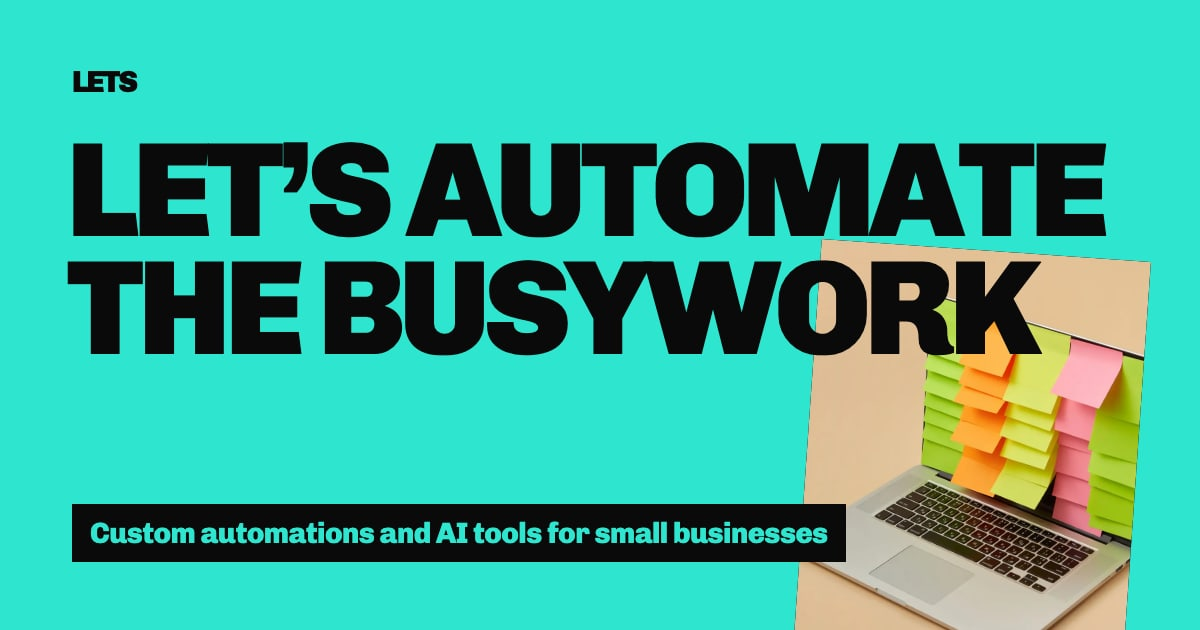
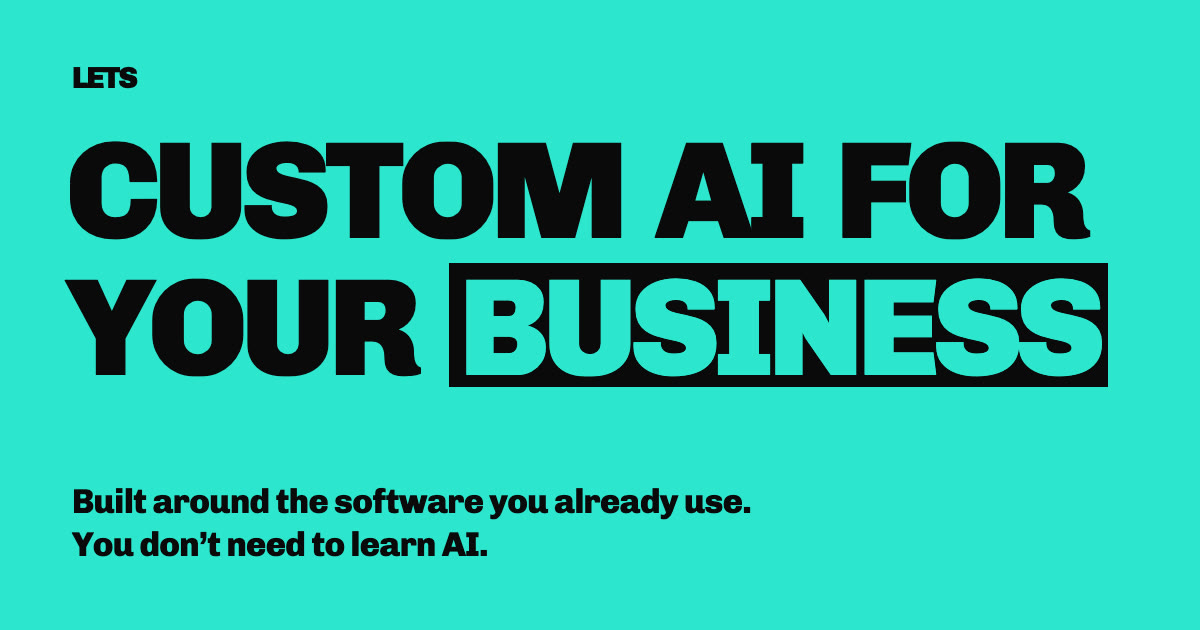
New first screen: "Custom AI for your business", with four everyday jobs lighting up once
Chosen by Ben (option B) after a Codex partner proposal, an adversarial review and a re-check, and blind
5-second tests on phones: the offer is still and readable from the first frame (no entrance delay), BUSINESS
sits in a black box, and only the example moves (each result switches in one step, so no low-contrast frame;
reduced motion and no script show the finished picture). Old headline, paragraph, photo and load animation
removed with their CSS; the headline echo is gone from motion.js. Share card and og text match the new
headline. Codex code review: REVISE (chip contrast, list role, unused tokens) fixed, then APPROVE.

diff --git a/site/styles.css b/site/styles.css
@@ -43,8 +43,6 @@
   --section: clamp(5.5rem, 11vw, 10rem);
 
   --ease-out: cubic-bezier(0.22, 1, 0.36, 1);
-  --ease-expo: cubic-bezier(0.16, 1, 0.3, 1);
-  --ease-in-out: cubic-bezier(0.76, 0, 0.24, 1);
   --t-press: 140ms;
   --t-hover: 180ms;
   --t-ui: 240ms;
@@ -126,28 +124,9 @@ p { text-wrap: pretty; }
 .nav__links { display: flex; gap: clamp(1rem, 2.6vw, 2.5rem); }
 .nav__links a { text-decoration-thickness: 0.12em; }
 .menu { display: none; }
-.hero__title { margin-top: clamp(1.5rem, 5svh, 4rem); position: relative; z-index: 2; }
-.hero__body { flex: 1; min-height: 0; position: relative; margin-top: clamp(1.5rem, 3.5svh, 2.5rem); padding-bottom: clamp(2rem, 5svh, 3.5rem); align-items: start; }
-.hero__copy { grid-column: 1 / span 6; grid-row: 1; display: flex; flex-direction: column; align-items: flex-start; gap: 1.75rem; position: relative; z-index: 2; }
-.hero__fact { font-weight: 700; font-size: var(--step-body); line-height: 1.4; max-width: 44ch; }
-.hero__act { display: flex; flex-wrap: wrap; align-items: center; gap: 0.75rem 1.5rem; }
-.hero__free { font-weight: 900; font-size: var(--step-body); }
-/* On wide screens the picture sits in its grid area but out of flow, so it bleeds off the bottom without
-   setting the hero's height, and the hero grows with the words on short screens instead of cutting them. */
-.hero__picture {
-  grid-column: 7 / span 5; grid-row: 1; position: absolute; top: 0; left: 0; right: 0; z-index: 1;
-  margin-top: calc(var(--step-display) * -0.55);
-  aspect-ratio: 3 / 4; background: var(--photo-ground); overflow: clip;
-  transform: rotate(4deg); transform-origin: 50% 0;
-}
-.hero__picture picture, .hero__picture img { width: 100%; height: 100%; }
-.hero__picture img { object-fit: cover; object-position: 50% 30%; }
 
 /* The Billing Day card: the app's own look (the .bd tokens), a link to the full preview below. */
 
-/* lines for the masked headline */
-.lines .line { display: block; overflow: clip; padding-bottom: 0.08em; margin-bottom: -0.08em; }
-.lines [data-line] { display: block; }
 
 /* ---------- intro: the proposition, and the busywork list the headline's letters land in ---------- */
 
@@ -343,9 +322,6 @@ p { text-wrap: pretty; }
   .menu__links a { display: block; padding: 0.55rem 0; font-size: var(--step-lead); font-weight: 900; letter-spacing: -0.03em; text-decoration: none; }
   .menu__links a:focus-visible { outline-offset: 0; }
   .hero { height: auto; min-height: 0; }
-  .hero__copy { grid-column: 1 / span 6; grid-row: 1; }
-  .hero__picture { position: relative; inset: auto; grid-column: 8 / span 5; grid-row: 1 / 3; margin-bottom: -14%; }
-  .hero__body { grid-template-rows: auto minmax(0, 1fr); padding-bottom: 2.5rem; }
   
   
   
@@ -374,12 +350,6 @@ p { text-wrap: pretty; }
 @media (max-width: 640px) {
   .nav { gap: 0.5rem; }
   .menu { margin-left: auto; }
-  .hero__title { margin-top: 1.5rem; }
-  .hero__body { display: flex; flex-direction: column; gap: 1.5rem; padding-bottom: 2.5rem; }
-  .hero__copy { gap: 1.25rem; }
-  .hero__act { width: 100%; }
-  .hero__act .button { width: 100%; }
-  .hero__picture { order: 3; width: 64%; align-self: center; margin-top: 0.5rem; margin-bottom: -18%; transform: rotate(4deg); }
   
   
   .vm__controls { width: 100%; }
@@ -414,17 +384,6 @@ p { text-wrap: pretty; }
   .footer__links { grid-template-columns: repeat(2, max-content); }
 }
 
-/* ---------- motion: the load sequence (CSS only, settled by 1.2s; the reduced page is the finished page) ---------- */
-@media (prefers-reduced-motion: no-preference) {
-  .js .hero [data-line] { transform: translateY(105%); animation: line-up 900ms var(--ease-expo) forwards; animation-delay: calc(120ms + var(--i) * 110ms); }
-  .js .hero [data-load] { opacity: 0; transform: translateY(16px); animation: rise 560ms var(--ease-out) forwards; animation-delay: var(--d); }
-  .js .hero [data-open] { clip-path: inset(100% 0 0 0); animation: open-up 1000ms var(--ease-in-out) 180ms forwards; }
-  .js .hero [data-open] img { transform: scale(1.14); animation: settle 1200ms var(--ease-expo) 150ms forwards; }
-}
-@keyframes line-up { to { transform: none; } }
-@keyframes rise { to { opacity: 1; transform: none; } }
-@keyframes open-up { to { clip-path: inset(0 0 0 0); } }
-@keyframes settle { to { transform: none; } }
 [data-ripple] { background: currentColor; }
 .impression-line { display: block; white-space: nowrap; }
 .impression-line::before { content: attr(data-t); }
@@ -710,14 +669,9 @@ p { text-wrap: pretty; }
 @media (max-width: 640px) { .about__photo { grid-column: 1 / span 10; } }
 /* Footer links wrap instead of running into the address at narrow desktop widths. */
 .footer__links { display: flex; flex-wrap: wrap; gap: 0.75rem 2.5rem; }
-/* Short laptop screens (1440x700): tighter rows, a smaller lead and a smaller photo, so the button, the
-   free line and the Billing Day card all fit on the first screen. */
+/* Short laptop screens (1440x700): a tighter nav row, so the offer and its button fit on the first screen. */
 @media (min-width: 1001px) and (max-height: 820px) {
   .hero .nav { padding-block: 0.875rem; }
-  .hero__title { margin-top: 0.25rem; font-size: min(var(--step-display), 21svh); }
-  .hero__body { margin-top: 1rem; padding-bottom: 1.25rem; }
-  .hero__copy { gap: 1rem; }
-  .hero__copy .lead { font-size: 1.375rem; }
 }
 /* The Approve card comes straight after the street (in the page's order too), so on a phone the windows
    that answer the button are just above it; on wide screens the invoice stays on the left. */
@@ -915,14 +869,11 @@ p { text-wrap: pretty; }
 }
 
 /* ---------- audit round 1, 2026-11-05: strict conversion, design and truth audits ---------- */
-/* Weight carries meaning again: running text at 400, headings and labels heavy. The hero's lead line leads. */
-.hero .lead { font-weight: 600; }
-.hero__fact, .probs__why, .work__text, .coupon__facts li, .calc__how, .chores__legend, .vmrow__words p { font-weight: 400; }
+/* Weight carries meaning again: running text at 400, headings and labels heavy. */
+.probs__why, .work__text, .coupon__facts li, .calc__how, .chores__legend, .vmrow__words p { font-weight: 400; }
 /* On a phone the section heads step down so the page title stays the largest type. */
 @media (max-width: 640px) {
   :root { --step-head: 2rem; }
-  .hero__copy { gap: 1rem; }
-  .hero__picture { width: 56%; margin-top: 0; }
 }
 /* How it works: each step on the page grid (heading on the left half, words from column 7); the last step's
    teal block runs to the page edges so its heading starts on the same line as the others. */
@@ -964,7 +915,7 @@ p { text-wrap: pretty; }
   .bd .st-lot { aspect-ratio: 1; }
   .bd .st-lot > .st-lot-bldg { left: -10%; width: 120%; }
 }
-/* Resting tilts: only the hero picture leans; interface pieces sit square (their entrances still turn). */
+/* Resting tilts: interface pieces sit square (their entrances still turn). */
 [data-ui].vm-list { transform: none; }
 /* Reduced motion: the phone shows Monday night and Tuesday morning one under the other (nothing waits hidden
    behind a button), and its only control is the contact link. */
@@ -989,8 +940,6 @@ p { text-wrap: pretty; }
 
 /* Hero: the picture fills to the right margin on wide screens; on a phone it is shown whole, not cut by the next
    section. */
-@media (min-width: 1001px) { .hero__picture { grid-column: 7 / span 6; } }
-@media (max-width: 640px) { .hero__picture { margin-bottom: 0; } }
 
 /* The problems: the survey figures in white; teal is kept for actions and the demos. */
 .fix4__stat b { color: var(--white); }
@@ -1091,3 +1040,64 @@ p { text-wrap: pretty; }
   .coupon__privacy { order: 11; }
 }
 @media (max-width: 640px) { .coupon__text { font-size: var(--step-body); } }
+
+/* ---------- hero, round 5 (2026-11-06): the offer stays still, one example moves ----------
+   Codex partner and adversary, and blind 5-second tests: the offer is readable from the first frame, nothing
+   in it waits for an entrance, and only the example below it moves (once, then rests on the finished picture;
+   reduced motion and no script show the finished picture). Phone first. */
+.hero { min-height: 0; padding-bottom: 2rem; }
+.hero__title { --fit: 7.75; font-size: min(calc((100cqi - 2 * var(--margin)) / var(--fit)), 17svh, 8.75rem); line-height: 0.92; word-spacing: 0.1em; margin-top: 0.75rem; }
+.hero__l { display: block; white-space: nowrap; }
+.hero__box { display: inline-block; line-height: 0.8; background: var(--black); color: var(--teal); padding: 0.07em 0.07em 0.03em; margin-top: 0.06em; }
+.hero__body { display: flex; flex-direction: column; gap: 1rem; margin-top: 1.1rem; }
+.hero__copy { display: grid; gap: 0.5rem; }
+.hero__sub { font-size: 1.25rem; line-height: 1.25; font-weight: 800; letter-spacing: -0.02em; max-width: 26ch; }
+.hero__who { font-size: var(--step-body); font-weight: 700; line-height: 1.3; }
+.hero__act { display: grid; gap: 0.5rem; }
+.hero__act .button { width: 100%; min-height: 3.5rem; }
+.hero__free { font-weight: 900; font-size: var(--step-body); line-height: 1.3; }
+.hero__lead { font-size: 1.125rem; font-weight: 600; max-width: 32ch; }
+
+/* the example: four everyday jobs and what each becomes */
+.jobs { margin: 0; background: var(--black); color: var(--white); padding: 0.875rem 1rem 1rem; }
+.jobs__top { display: flex; justify-content: space-between; align-items: baseline; gap: 1rem; margin-bottom: 0.6rem; }
+.jobs__top b { font-size: 1.0625rem; font-weight: 900; color: var(--teal); letter-spacing: -0.02em; }
+.jobs__tag { font-size: 0.8125rem; font-weight: 700; background: var(--white); color: var(--black); padding: 0.05rem 0.45rem; }
+.jobs__list { display: grid; gap: 0.3rem; }
+.job { display: grid; grid-template-columns: 6.6rem 1.4rem 1fr; align-items: center; gap: 0.4rem; }
+.job__from { font-weight: 800; font-size: 0.875rem; line-height: 1.15; }
+.job__arrow { width: 100%; fill: none; stroke: var(--teal); stroke-width: 3.5; stroke-linecap: square; }
+.job__to { background: var(--teal); color: var(--black); font-weight: 800; font-size: 0.875rem; line-height: 1.15; padding: 0.3rem 0.5rem; }
+.jobs__check { display: flex; align-items: center; gap: 0.5rem; margin-top: 0.6rem; font-weight: 900; font-size: 1.0625rem; letter-spacing: -0.02em; }
+.jobs__check svg { width: 1.5rem; height: 1.5rem; flex: none; fill: none; stroke: var(--teal); stroke-width: 3.5; stroke-dasharray: 30; }
+
+/* With script and motion, the results start unlit (every word still readable) from the first paint, so nothing
+   flashes; js/hero.js lights them once, one after another, when the example is on screen, then marks it at
+   rest. Each result switches ink and ground in one step, so no frame is low contrast (Codex review). */
+@media (prefers-reduced-motion: no-preference) {
+  .js .jobs:not(.is-rest) .job__to { background: #262626; color: var(--white); }
+  .jobs.is-play .job__to { animation: jobs-chip 1ms steps(1, end) both; animation-delay: calc(200ms + var(--k) * 300ms); }
+  .jobs.is-play .jobs__check svg { animation: jobs-tick 380ms var(--ease-out) 1500ms both; }
+}
+@keyframes jobs-chip { from { background: #262626; color: var(--white); } to { background: var(--teal); color: var(--black); } }
+@keyframes jobs-tick { from { stroke-dashoffset: 30; } to { stroke-dashoffset: 0; } }
+
+/* tablet: one column, roomier */
+@media (min-width: 641px) {
+  .hero__sub, .hero__lead { font-size: var(--step-lead); }
+  .hero__act { grid-template-columns: auto 1fr; align-items: center; column-gap: 1.25rem; }
+  .hero__act .button { width: auto; min-height: 4rem; }
+  .jobs { padding: 1.25rem 1.5rem 1.5rem; max-width: 40rem; }
+  .job { grid-template-columns: 11rem 2.25rem 1fr; }
+  .job__from, .job__to { font-size: var(--step-body); }
+}
+/* desktop: the words on the left, the example on the right */
+@media (min-width: 1001px) {
+  .hero__title { margin-top: clamp(1rem, 3svh, 2.5rem); }
+  .hero__body { display: grid; grid-template-columns: repeat(12, minmax(0, 1fr)); column-gap: var(--gutter); row-gap: 1.5rem; margin-top: clamp(1.25rem, 3svh, 2.5rem); align-items: start; }
+  .hero__copy, .hero__act, .hero__lead { grid-column: 1 / span 6; }
+  .hero__copy { grid-row: 1; } .hero__act { grid-row: 2; } .hero__lead { grid-row: 3; }
+  .jobs { grid-column: 7 / -1; grid-row: 1 / span 3; max-width: none; padding: clamp(1.25rem, 2.2vw, 2rem); }
+  .jobs__top b { font-size: var(--step-lead); }
+  .hero__sub { max-width: 30ch; }
+}

diff --git a/site/index.html b/site/index.html
@@ -9,13 +9,13 @@
 <meta name="theme-color" content="#2ee6cf">
 <meta property="og:type" content="website">
 <meta property="og:site_name" content="LETS">
-<meta property="og:title" content="Let’s automate the busywork">
+<meta property="og:title" content="Custom AI for your business">
 <meta property="og:description" content="Ben and Zeke build custom automations and AI tools for small businesses that want to grow, and teach your team to use AI. Based in Nashville, working with you anywhere.">
 <meta property="og:url" content="https://localedgesolutions.ai/">
 <meta property="og:image" content="https://localedgesolutions.ai/og-image.jpg">
 <meta property="og:image:width" content="1200">
 <meta property="og:image:height" content="630">
-<meta property="og:image:alt" content="LET’S AUTOMATE THE BUSYWORK in heavy black capitals on teal, beside a laptop buried in sticky notes. Custom automations and AI tools for small businesses.">
+<meta property="og:image:alt" content="CUSTOM AI FOR YOUR BUSINESS in heavy black capitals on teal, the word business in a black box. Built around the software you already use. You don’t need to learn AI.">
 <meta name="twitter:card" content="summary_large_image">
 <link rel="icon" href="/favicon.svg" type="image/svg+xml">
 <link rel="icon" href="/favicon-32.png" type="image/png" sizes="32x32">
@@ -83,28 +83,28 @@
     <a class="button button--small nav__cta" href="#contact">Let’s talk</a>
   </nav>
 
-  <h1 class="display hero__title lines">
-    <span class="line"><span data-line style="--i:0">Let’s automate</span></span>
-    <span class="line"><span data-line style="--i:1">the busywork</span></span>
-  </h1>
+  <h1 class="display hero__title"><span class="hero__l">Custom AI for</span> <span class="hero__l">your <span class="hero__box">business</span></span></h1>
 
-  <div class="hero__body grid">
+  <div class="hero__body">
     <div class="hero__copy">
-      <p class="lead" data-load style="--d:420ms">Tell us what you’d rather not be doing. We’ll build the thing that does it for you.</p>
-      <p class="hero__fact" data-load style="--d:460ms">Custom automations and AI tools that answer inquiries, follow up missed calls, chase late invoices and pull your numbers together, for small businesses that want to grow. We also teach your team to use AI. Two of us, based in Nashville.</p>
-      <div class="hero__act" data-load style="--d:500ms">
-        <a class="button" href="#contact">Let’s talk</a>
-        <p class="hero__free">The first talk is free.</p>
-      </div>
+      <p class="hero__sub">Built around the software you already use. You don’t need to learn AI.</p>
+      <p class="hero__who">For small businesses, by Ben and Zeke in Nashville.</p>
     </div>
-    <figure class="hero__picture" data-open>
-      <picture>
-        <source type="image/avif" sizes="(max-width: 640px) 64vw, 42vw" srcset="./assets/img/hero-480.avif 480w, ./assets/img/hero-720.avif 720w, ./assets/img/hero-960.avif 960w">
-        <img src="./assets/img/hero-720.webp" sizes="(max-width: 640px) 64vw, 42vw" srcset="./assets/img/hero-480.webp 480w, ./assets/img/hero-720.webp 720w, ./assets/img/hero-960.webp 960w"
-             width="1800" height="2400" fetchpriority="high" decoding="async"
-             alt="A laptop whose screen is buried under rows of orange, pink and green sticky notes">
-      </picture>
+    <figure class="jobs" data-jobs aria-labelledby="jobs-title">
+      <p class="jobs__top"><b id="jobs-title">What we’d build</b><span class="jobs__tag">Example</span></p>
+      <ul class="jobs__list" role="list">
+        <li class="job" style="--k:0"><span class="job__from">Missed call</span><svg class="job__arrow" viewBox="0 0 48 24" aria-hidden="true" focusable="false"><path d="M2 12 H40 M30 3 L42 12 L30 21"></path></svg><span class="job__to"><span class="sr-only">becomes: </span>On your call-back list</span></li>
+        <li class="job" style="--k:1"><span class="job__from">Customer question</span><svg class="job__arrow" viewBox="0 0 48 24" aria-hidden="true" focusable="false"><path d="M2 12 H40 M30 3 L42 12 L30 21"></path></svg><span class="job__to"><span class="sr-only">becomes: </span>Reply drafted</span></li>
+        <li class="job" style="--k:2"><span class="job__from">Spreadsheets</span><svg class="job__arrow" viewBox="0 0 48 24" aria-hidden="true" focusable="false"><path d="M2 12 H40 M30 3 L42 12 L30 21"></path></svg><span class="job__to"><span class="sr-only">becomes: </span>Report prepared</span></li>
+        <li class="job" style="--k:3"><span class="job__from">Late invoice</span><svg class="job__arrow" viewBox="0 0 48 24" aria-hidden="true" focusable="false"><path d="M2 12 H40 M30 3 L42 12 L30 21"></path></svg><span class="job__to"><span class="sr-only">becomes: </span>Reminder drafted</span></li>
+      </ul>
+      <p class="jobs__check"><svg viewBox="0 0 24 24" aria-hidden="true" focusable="false"><path d="M4 12.5 L10 18 L20 6"></path></svg>You check it before it goes.</p>
     </figure>
+    <div class="hero__act">
+      <a class="button" href="#contact">Let’s talk</a>
+      <p class="hero__free">The first talk is free. Only your email is needed.</p>
+    </div>
+    <p class="lead hero__lead">Tell us what you’d rather not be doing. We’ll build the thing that does it for you.</p>
   </div>
 </header>
 

diff --git a/site/js/motion.js b/site/js/motion.js
@@ -1,6 +1,6 @@
 // The motion layer. Recipes adapted from Animaxxing (registrationSlip, pressFeedback) with the taste skill's
 // rules winning: no overshoot, nothing hidden without script, reduced motion gets the finished page.
-// The hero's load sequence is CSS (styles.css). Everything here is built inside one gsap.matchMedia()
+// The hero's one example runs in js/hero.js. Everything here is built inside one gsap.matchMedia()
 // run and torn down with it when the motion preference or the width class changes.
 import { gsap, ScrollTrigger, SplitText, calm, $, $$, fontsReady } from "./env.js";
 
@@ -110,10 +110,8 @@ export function initMotion() {
     // Entrances only move, at every width: nothing ever waits invisible (or masked) for a scroll that a
     // visitor, a jump to #contact or a screenshot might skip past (critique cap, 2026-11-05).
 
-    // Hero: the masked lines rise in CSS; then a white second impression slips into register under the black.
-    const h1 = $(".hero__title");
-    const slipCall = gsap.delayedCall(1.05, () => registrationSlip(h1, "var(--white)", { x: 18, y: 8, duration: 0.8 }));
-    undo.push(() => slipCall.kill());
+    // The hero's headline never moves (round 5: the offer is readable from the first frame); js/hero.js runs
+    // its one example.
 
     // Headings are never moved or hidden; where marked, a second impression slips into register as each
     // arrives. Called section by section so every

diff --git a/site/js/hero.js b/site/js/hero.js
@@ -1,0 +1,16 @@
+// The hero's example lights its four results once, when it is on screen, then rests on the finished picture.
+// The unlit start is CSS (.js, motion allowed), so it is there from the first paint; with reduced motion or
+// no script the finished picture is all there is. Every word is in the HTML either way.
+export function initHero() {
+  const fig = document.querySelector("[data-jobs]");
+  if (!fig || matchMedia("(prefers-reduced-motion: reduce)").matches) return;
+  const rest = () => { fig.classList.remove("is-play"); fig.classList.add("is-rest"); };
+  if (!("IntersectionObserver" in window)) { rest(); return; }
+  const io = new IntersectionObserver((entries) => {
+    if (!entries.some((e) => e.isIntersecting)) return;
+    io.disconnect();
+    fig.classList.add("is-play");
+    setTimeout(rest, 2400);
+  }, { threshold: 0.4 });
+  io.observe(fig);
+}

diff --git a/site/main.js b/site/main.js
@@ -2,6 +2,7 @@
 // Each part upgrades HTML that already works on its own; a failure in one never hides another's content.
 import { fontsReady } from "./js/env.js";
 import { initMenu } from "./js/menu.js";
+import { initHero } from "./js/hero.js";
 import { initVoicemail } from "./js/voicemail.js";
 import { initAsk } from "./js/ask.js";
 import { initBusy } from "./js/busy.js";
@@ -15,6 +16,7 @@ const safely = (name, fn) => {
 };
 
 safely("menu", initMenu);
+safely("hero", initHero);
 safely("voicemail", initVoicemail);
 safely("ask", initAsk);
 safely("busy", initBusy);
